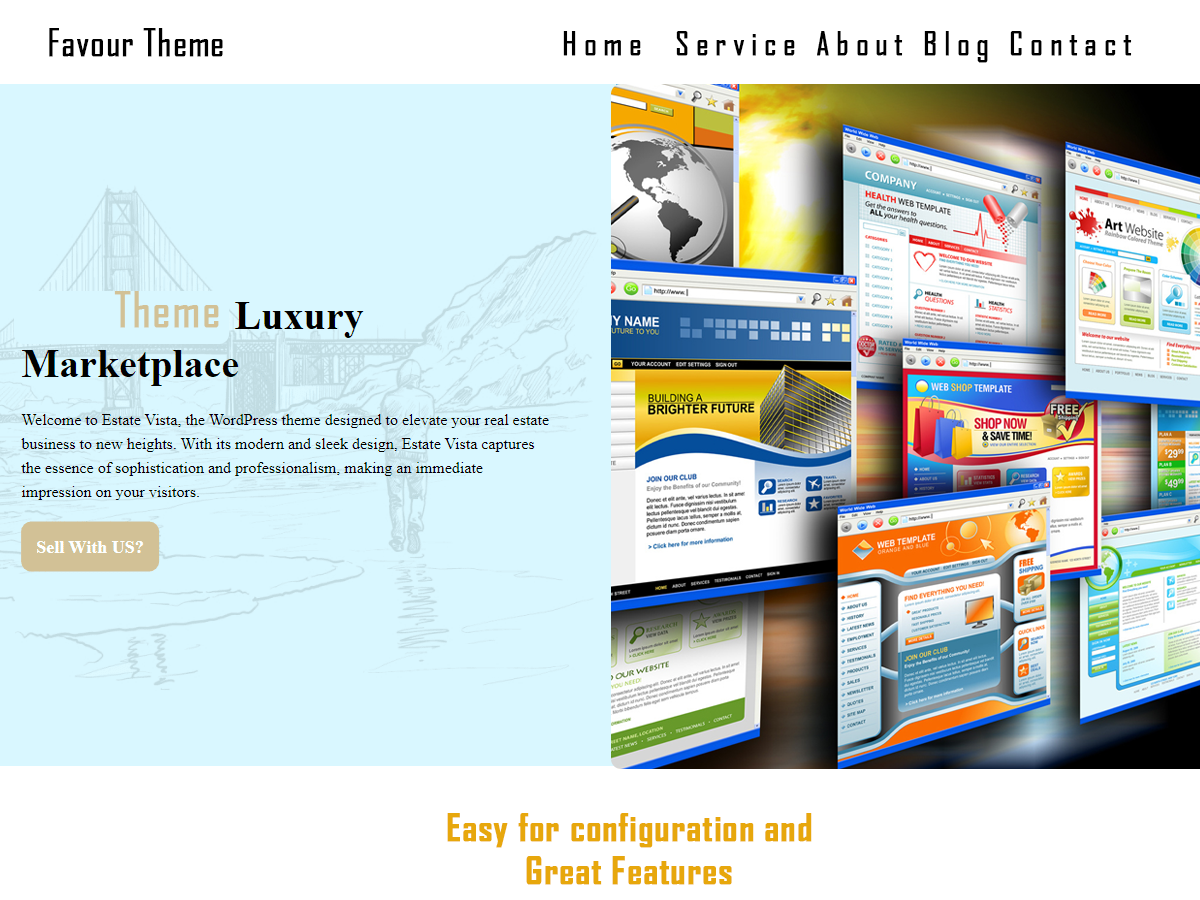
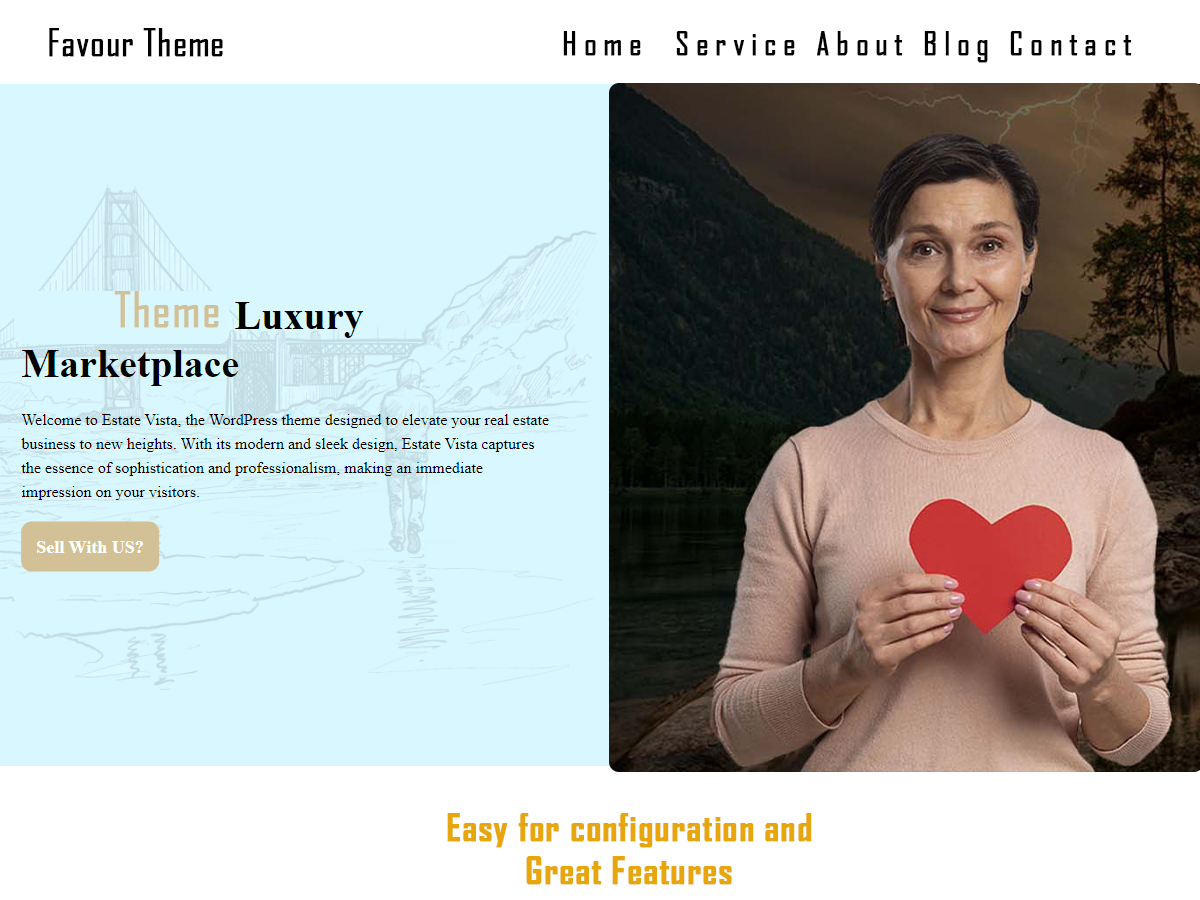
Updated Readme & License

diff --git a/templates/front-page.html b/templates/front-page.html
@@ -1,16 +1,20 @@
 <!-- wp:ourblocktheme/header /-->
 
 <!-- wp:ourblocktheme/banner -->
-<!-- wp:ourblocktheme/genericheading {"text":"Welcome"} -->
-<h1 class="wp-block-ourblocktheme-genericheading headline headline--large">Welcome</h1>
+<!-- wp:ourblocktheme/genericheading {"text":"Welcome Home"} -->
+<h1 class="wp-block-ourblocktheme-genericheading headline headline--large">Welcome Home</h1>
 <!-- /wp:ourblocktheme/genericheading -->
 
-<!-- wp:ourblocktheme/genericheading {"text":"\u003cstrong\u003eMeet a self Made Developer\u003c/strong\u003e","size":"medium"} -->
-<h2 class="wp-block-ourblocktheme-genericheading headline headline--medium"><strong>Meet a self Made Developer</strong></h2>
+<!-- wp:ourblocktheme/genericheading {"text":"We all \u003cstrong\u003e\u003cem\u003e@LoveOrphanage\u003c/em\u003e\u003c/strong\u003e Loves You","size":"medium"} -->
+<h2 class="wp-block-ourblocktheme-genericheading headline headline--medium">We all <strong><em>@LoveOrphanage</em></strong> Loves You</h2>
 <!-- /wp:ourblocktheme/genericheading -->
 
-<!-- wp:ourblocktheme/genericbutton {"text":"Learn More","size":"medium"} -->
-<a href="" class="wp-block-ourblocktheme-genericbutton btn btn--medium btn--blue">Learn More</a>
+<!-- wp:ourblocktheme/genericheading {"text":"You can become a sponsor and donate love to children","size":"small"} -->
+<h3 class="wp-block-ourblocktheme-genericheading headline headline--small">You can become a sponsor and donate love to children</h3>
+<!-- /wp:ourblocktheme/genericheading -->
+
+<!-- wp:ourblocktheme/genericbutton {"text":"Learn More","size":"medium","linkObject":{"url":"http://online-university.local/","id":33,"title":"Home","type":"page","kind":"post-type"},"colorName":"dark-orange"} -->
+<a href="http://online-university.local/" class="wp-block-ourblocktheme-genericbutton btn btn--medium btn--dark-orange">Learn More</a>
 <!-- /wp:ourblocktheme/genericbutton -->
 <!-- /wp:ourblocktheme/banner -->
 
@@ -19,27 +23,39 @@
 <!-- wp:ourblocktheme/slideshow -->
 <!-- wp:ourblocktheme/slide {"themeimage":"slide-1.jpg"} -->
 <!-- wp:ourblocktheme/genericheading {"text":"It's about you and nature","size":"medium"} -->
-<h2 class="wp-block-ourblocktheme-genericheading headline headline--medium">It's about you and nature</h2>
+<h2 class="wp-block-ourblocktheme-genericheading headline headline--medium">We are all one big family</h2>
 <!-- /wp:ourblocktheme/genericheading -->
 
-<!-- wp:ourblocktheme/genericbutton {"text":"Learn More","size":"medium"} -->
-<a href="" class="wp-block-ourblocktheme-genericbutton btn btn--medium btn--blue">Learn More</a>
+<!-- wp:ourblocktheme/genericheading {"text":"One love keep us going","size":"small"} -->
+<h3 class="wp-block-ourblocktheme-genericheading headline headline--small">One love keep us going</h3>
+<!-- /wp:ourblocktheme/genericheading -->
+
+<!-- wp:ourblocktheme/genericbutton {"text":"Know More","size":"small","colorName":"dark-orange"} -->
+<a href="" class="wp-block-ourblocktheme-genericbutton btn btn--small btn--dark-orange">Know More</a>
 <!-- /wp:ourblocktheme/genericbutton -->
 <!-- /wp:ourblocktheme/slide -->
 
 <!-- wp:ourblocktheme/slide  {"themeimage":"slide-2.jpg"} -->
-<!-- wp:ourblocktheme/genericheading {"text":"Loving Nature is what we do","size":"medium"} -->
-<h2 class="wp-block-ourblocktheme-genericheading headline headline--medium">Loving Nature is what we do</h2>
+<!-- wp:ourblocktheme/genericheading {"text":"Donations day","size":"medium"} -->
+<h2 class="wp-block-ourblocktheme-genericheading headline headline--medium">Donations day</h2>
 <!-- /wp:ourblocktheme/genericheading -->
 
-<!-- wp:ourblocktheme/genericbutton {"text":"About Us","size":"medium","colorName":"orange"} -->
-<a href="" class="wp-block-ourblocktheme-genericbutton btn btn--medium btn--orange">About Us</a>
+<!-- wp:ourblocktheme/genericheading {"text":"A very big thank you to all our sponsors, \u003cbr\u003eYour love keeps us going","size":"small"} -->
+<h3 class="wp-block-ourblocktheme-genericheading headline headline--small">A very big thank you to all our sponsors, <br>Your love keeps us going</h3>
+<!-- /wp:ourblocktheme/genericheading -->
+
+<!-- wp:ourblocktheme/genericbutton {"text":"Join Us","size":"medium"} -->
+<a href="" class="wp-block-ourblocktheme-genericbutton btn btn--medium btn--blue">Join Us</a>
 <!-- /wp:ourblocktheme/genericbutton -->
 <!-- /wp:ourblocktheme/slide -->
 
 <!-- wp:ourblocktheme/slide  {"themeimage":"slide-3.jpg"} -->
-<!-- wp:ourblocktheme/genericheading {"text":"Winter Feelings","size":"medium"} -->
-<h2 class="wp-block-ourblocktheme-genericheading headline headline--medium">Winter Feelings</h2>
+<!-- wp:ourblocktheme/genericheading {"text":"We Beleive","size":"medium"} -->
+<h2 class="wp-block-ourblocktheme-genericheading headline headline--medium">We Beleive</h2>
+<!-- /wp:ourblocktheme/genericheading -->
+
+<!-- wp:ourblocktheme/genericheading {"text":"Our future is bright, No Limitations","size":"small"} -->
+<h3 class="wp-block-ourblocktheme-genericheading headline headline--small">Our future is bright, No Limitations</h3>
 <!-- /wp:ourblocktheme/genericheading -->
 
 <!-- wp:ourblocktheme/genericbutton {"text":"View More","size":"medium","colorName":"dark-orange"} -->

diff --git a/our-blocks/singleprofessor.js b/our-blocks/singleprofessor.js
@@ -1,5 +1,5 @@
 wp.blocks.registerBlockType("ourblocktheme/singleprofessor", {
-  title: "Online University Single Professor",
+  title: "Orphanage Single Professor",
   edit: function () {
     return wp.element.createElement("div", { className: "our-placeholder-block" }, "Single Professor Placeholder")
   },

diff --git a/our-blocks/programarchive.js b/our-blocks/programarchive.js
@@ -1,5 +1,5 @@
 wp.blocks.registerBlockType("ourblocktheme/programarchive", {
-  title: "Online University Program Archive",
+  title: "Orphanage Program Archive",
   edit: function () {
     return wp.element.createElement("div", { className: "our-placeholder-block" }, "Program Archive Placeholder")
   },

diff --git a/our-blocks/archivecampus.js b/our-blocks/archivecampus.js
@@ -1,5 +1,5 @@
 wp.blocks.registerBlockType("ourblocktheme/archivecampus", {
-  title: "Online University Campus Archive",
+  title: "Orphanage Campus Archive",
   edit: function () {
     return wp.element.createElement("div", { className: "our-placeholder-block" }, "Campus Archive Placeholder")
   },

diff --git a/our-blocks/singleprogram.js b/our-blocks/singleprogram.js
@@ -1,5 +1,5 @@
 wp.blocks.registerBlockType("ourblocktheme/singleprogram", {
-  title: "Online University Single Program",
+  title: "Orphanage Single Program",
   edit: function () {
     return wp.element.createElement("div", { className: "our-placeholder-block" }, "Single Program Placeholder")
   },

diff --git a/our-blocks/searchresults.js b/our-blocks/searchresults.js
@@ -1,5 +1,5 @@
 wp.blocks.registerBlockType("ourblocktheme/searchresults", {
-  title: "Online University Searc Results",
+  title: "Orphanage Searc Results",
   edit: function () {
     return wp.element.createElement("div", { className: "our-placeholder-block" }, "Search Results Placeholder")
   },

diff --git a/our-blocks/singlepost.js b/our-blocks/singlepost.js
@@ -1,5 +1,5 @@
 wp.blocks.registerBlockType("ourblocktheme/singlepost", {
-    title: "Online University Single Post",
+    title: "Orphanage Single Post",
     edit: function () {
       return wp.element.createElement("div", { className: "our-placeholder-block" }, "Single Post Placeholder")
     },

diff --git a/our-blocks/archiveevent.js b/our-blocks/archiveevent.js
@@ -1,5 +1,5 @@
 wp.blocks.registerBlockType("ourblocktheme/archiveevent", {
-  title: "Online University Event Archive",
+  title: "Orphanage Event Archive",
   edit: function () {
     return wp.element.createElement("div", { className: "our-placeholder-block" }, "Event Archive Placeholder")
   },

diff --git a/our-blocks/blogindex.js b/our-blocks/blogindex.js
@@ -1,5 +1,5 @@
 wp.blocks.registerBlockType("ourblocktheme/blogindex", {
-    title: "Online University Blog Index",
+    title: "Orphanage  Blog Index",
     edit: function () {
       return wp.element.createElement("div", { className: "our-placeholder-block" }, "Blog Index Placeholder")
     },

diff --git a/our-blocks/singleevent.js b/our-blocks/singleevent.js
@@ -1,5 +1,5 @@
 wp.blocks.registerBlockType("ourblocktheme/singleevent", {
-  title: "Online University Single Event",
+  title: "Orphanage Single Event",
   edit: function () {
     return wp.element.createElement("div", { className: "our-placeholder-block" }, "Single Event Placeholder")
   },

diff --git a/our-blocks/pastevents.js b/our-blocks/pastevents.js
@@ -1,5 +1,5 @@
 wp.blocks.registerBlockType("ourblocktheme/pastevents", {
-  title: "Online University Past Events",
+  title: "Orphanage Past Events",
   edit: function () {
     return wp.element.createElement("div", { className: "our-placeholder-block" }, "Past Events Placeholder")
   },

diff --git a/our-blocks/footer.js b/our-blocks/footer.js
@@ -1,5 +1,5 @@
 wp.blocks.registerBlockType("ourblocktheme/footer", {
-    title: "Online University Footer",
+    title: "Orphanage  Footer",
     edit: function () {
       return wp.element.createElement("div", { className: "our-placeholder-block" }, "Footer Placeholder")
     },
